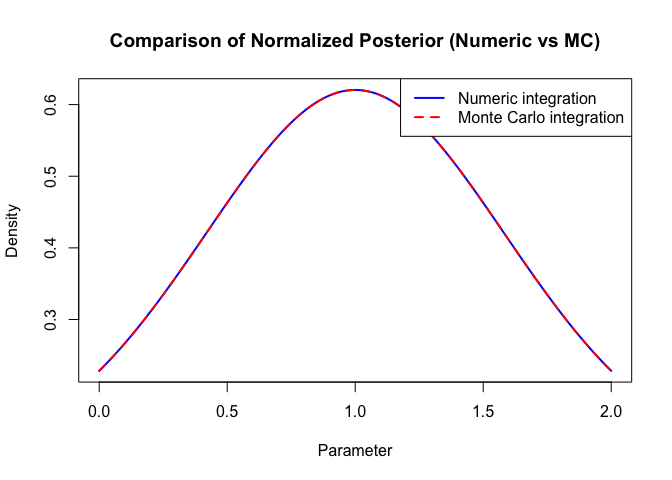
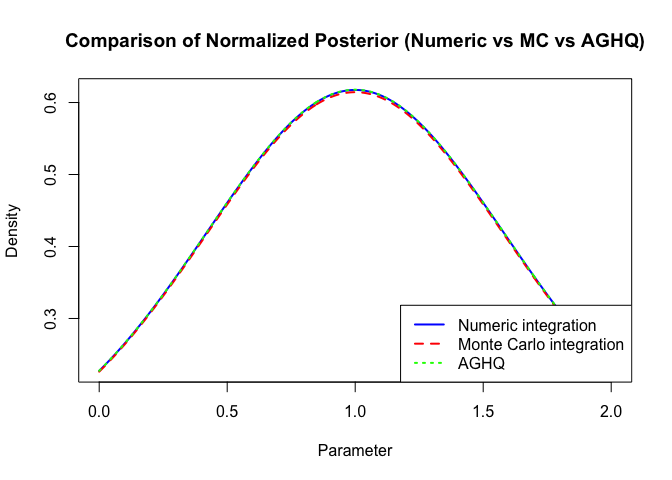
update aghq option and bug correction
enhance the code for normalization;

aghq is now an option for normalization when D >= 1

Typo correction for boss wrapper

diff --git a/docs/index.html b/docs/index.html
@@ -74,12 +74,15 @@
 <span>            alpha <span class="op">=</span> <span class="fl">0.05</span>, h <span class="op">=</span> <span class="fl">0.1</span>, verbose <span class="op">=</span> <span class="fl">1</span><span class="op">)</span></span>
 <span><span class="co">#&gt; Stage 1: Bayesian Optimization via Mode-Seeking Surrogate (BOSS) started.</span></span>
 <span><span class="co">#&gt; Stage 1: BOSS finished.</span></span>
-<span><span class="co">#&gt; Total time taken: 0.88 seconds.</span></span>
+<span><span class="co">#&gt; Total time taken: 0.81 seconds.</span></span>
 <span><span class="co">#&gt; Start updating Hessian at the mode...</span></span>
 <span><span class="co">#&gt; Hessian updated in  0.02  seconds.</span></span>
 <span><span class="co">#&gt; Stage 2: Fill-in to target spacing h =  0.1 </span></span>
-<span><span class="co">#&gt; fill in: added 20 point(s).</span></span>
-<span><span class="co">#&gt; Final update completed in  0.05  seconds.</span></span>
+<span><span class="co">#&gt; fill in: added 17 point(s).</span></span>
+<span><span class="co">#&gt; Warning in (function (boss_result, h, max_add = 100, n_sample_max = 10000, :</span></span>
+<span><span class="co">#&gt; Updated fill-in distance is (0.104862) &gt; target h (0.100000); Adjust your</span></span>
+<span><span class="co">#&gt; expectation by either increasing max_add and n_sample_max or increasing h.</span></span>
+<span><span class="co">#&gt; Final update completed in  0.09  seconds.</span></span>
 <span></span>
 <span><span class="fu"><a href="https://rdrr.io/r/graphics/plot.default.html" class="external-link">plot</a></span><span class="op">(</span><span class="va">br</span><span class="op">)</span></span></code></pre></div>
 <p><img src="reference/figures/README-unnamed-chunk-2-1.png" width="100%"><img src="reference/figures/README-unnamed-chunk-2-2.png" width="100%"></p>
@@ -94,21 +97,22 @@
 <span>                        verbose <span class="op">=</span> <span class="fl">1</span><span class="op">)</span></span>
 <span><span class="co">#&gt; Stage 1: Bayesian Optimization via Mode-Seeking Surrogate (BOSS) started.</span></span>
 <span><span class="co">#&gt; Stage 1: BOSS finished.</span></span>
-<span><span class="co">#&gt; Total time taken: 0.55 seconds.</span></span>
+<span><span class="co">#&gt; Total time taken: 0.43 seconds.</span></span>
 <span></span>
 <span><span class="va">br</span> <span class="op">&lt;-</span> <span class="fu"><a href="reference/update_hessian.html">update_hessian</a></span><span class="op">(</span><span class="va">br</span><span class="op">)</span></span>
 <span><span class="va">br</span> <span class="op">&lt;-</span> <span class="fu"><a href="reference/compute_essential_support.html">compute_essential_support</a></span><span class="op">(</span><span class="va">br</span>, alpha<span class="op">=</span><span class="fl">0.05</span><span class="op">)</span></span>
 <span><span class="va">br</span> <span class="op">&lt;-</span> <span class="fu"><a href="reference/construct_essential_designs.html">construct_essential_designs</a></span><span class="op">(</span><span class="va">br</span><span class="op">)</span></span>
 <span><span class="va">br</span> <span class="op">&lt;-</span> <span class="fu"><a href="reference/compute_fill_in.html">compute_fill_in</a></span><span class="op">(</span><span class="va">br</span><span class="op">)</span></span>
 <span><span class="va">br</span> <span class="op">&lt;-</span> <span class="fu"><a href="reference/fill_in.html">fill_in</a></span><span class="op">(</span><span class="va">br</span>, h <span class="op">=</span> <span class="fl">0.1</span>, verbose <span class="op">=</span> <span class="fl">1</span>, max_add <span class="op">=</span> <span class="fl">100</span><span class="op">)</span></span>
-<span><span class="co">#&gt; fill in: added 12 point(s).</span></span>
+<span><span class="co">#&gt; fill in: added 16 point(s).</span></span>
 <span><span class="va">br_update</span> <span class="op">&lt;-</span> <span class="fu"><a href="reference/update_boss.html">update_boss</a></span><span class="op">(</span><span class="va">br</span><span class="op">)</span></span>
 <span><span class="fu"><a href="https://rdrr.io/r/graphics/plot.default.html" class="external-link">plot</a></span><span class="op">(</span><span class="va">br_update</span><span class="op">)</span></span></code></pre></div>
 <p><img src="reference/figures/README-unnamed-chunk-3-1.png" width="100%"><img src="reference/figures/README-unnamed-chunk-3-2.png" width="100%"></p>
 <p>Take a look at the normalized posterior:</p>
 <div class="sourceCode" id="cb5"><pre class="downlit sourceCode r">
 <code class="sourceCode R"><span><span class="va">br1</span> <span class="op">&lt;-</span> <span class="fu"><a href="reference/get_normalized_posterior.html">get_normalized_posterior</a></span><span class="op">(</span><span class="va">br_update</span>, int_method <span class="op">=</span> <span class="st">"mc"</span>, nsamples <span class="op">=</span> <span class="fl">10000</span><span class="op">)</span></span>
-<span><span class="va">br2</span> <span class="op">&lt;-</span> <span class="fu"><a href="reference/get_normalized_posterior.html">get_normalized_posterior</a></span><span class="op">(</span><span class="va">br_update</span>, int_method <span class="op">=</span> <span class="st">"numeric"</span><span class="op">)</span></span></code></pre></div>
+<span><span class="va">br2</span> <span class="op">&lt;-</span> <span class="fu"><a href="reference/get_normalized_posterior.html">get_normalized_posterior</a></span><span class="op">(</span><span class="va">br_update</span>, int_method <span class="op">=</span> <span class="st">"numeric"</span><span class="op">)</span></span>
+<span><span class="va">br3</span> <span class="op">&lt;-</span> <span class="fu"><a href="reference/get_normalized_posterior.html">get_normalized_posterior</a></span><span class="op">(</span><span class="va">br_update</span>, int_method <span class="op">=</span> <span class="st">"aghq"</span>, aghq_K <span class="op">=</span> <span class="fl">10</span><span class="op">)</span></span></code></pre></div>
 <div class="sourceCode" id="cb6"><pre class="downlit sourceCode r">
 <code class="sourceCode R"><span><span class="co"># Define grid</span></span>
 <span><span class="va">x_vals</span> <span class="op">&lt;-</span> <span class="fu"><a href="https://rdrr.io/r/base/seq.html" class="external-link">seq</a></span><span class="op">(</span><span class="fl">0</span>, <span class="fl">2</span>, length.out <span class="op">=</span> <span class="fl">300</span><span class="op">)</span></span>
@@ -116,18 +120,20 @@
 <span><span class="co"># Evaluate both posteriors</span></span>
 <span><span class="va">post_mc</span> <span class="op">&lt;-</span> <span class="fu"><a href="https://rdrr.io/r/base/lapply.html" class="external-link">sapply</a></span><span class="op">(</span><span class="va">x_vals</span>, <span class="va">br1</span><span class="op">$</span><span class="va">normalized_posterior</span><span class="op">)</span></span>
 <span><span class="va">post_num</span> <span class="op">&lt;-</span> <span class="fu"><a href="https://rdrr.io/r/base/lapply.html" class="external-link">sapply</a></span><span class="op">(</span><span class="va">x_vals</span>, <span class="va">br2</span><span class="op">$</span><span class="va">normalized_posterior</span><span class="op">)</span></span>
+<span><span class="va">post_aghq</span> <span class="op">&lt;-</span> <span class="fu"><a href="https://rdrr.io/r/base/lapply.html" class="external-link">sapply</a></span><span class="op">(</span><span class="va">x_vals</span>, <span class="va">br3</span><span class="op">$</span><span class="va">normalized_posterior</span><span class="op">)</span></span>
 <span></span>
 <span><span class="co"># Plot</span></span>
 <span><span class="fu"><a href="https://rdrr.io/r/graphics/plot.default.html" class="external-link">plot</a></span><span class="op">(</span></span>
 <span>  <span class="va">x_vals</span>, <span class="va">post_num</span>, type <span class="op">=</span> <span class="st">"l"</span>, lwd <span class="op">=</span> <span class="fl">2</span>, col <span class="op">=</span> <span class="st">"blue"</span>,</span>
 <span>  xlab <span class="op">=</span> <span class="st">"Parameter"</span>, ylab <span class="op">=</span> <span class="st">"Density"</span>,</span>
-<span>  main <span class="op">=</span> <span class="st">"Comparison of Normalized Posterior (Numeric vs MC)"</span></span>
+<span>  main <span class="op">=</span> <span class="st">"Comparison of Normalized Posterior (Numeric vs MC vs AGHQ)"</span></span>
 <span><span class="op">)</span></span>
 <span><span class="fu"><a href="https://rdrr.io/r/graphics/lines.html" class="external-link">lines</a></span><span class="op">(</span><span class="va">x_vals</span>, <span class="va">post_mc</span>, col <span class="op">=</span> <span class="st">"red"</span>, lwd <span class="op">=</span> <span class="fl">2</span>, lty <span class="op">=</span> <span class="fl">2</span><span class="op">)</span></span>
+<span><span class="fu"><a href="https://rdrr.io/r/graphics/lines.html" class="external-link">lines</a></span><span class="op">(</span><span class="va">x_vals</span>, <span class="va">post_aghq</span>, col <span class="op">=</span> <span class="st">"green"</span>, lwd <span class="op">=</span> <span class="fl">2</span>, lty <span class="op">=</span> <span class="fl">3</span><span class="op">)</span></span>
 <span><span class="fu"><a href="https://rdrr.io/r/graphics/legend.html" class="external-link">legend</a></span><span class="op">(</span></span>
-<span>  <span class="st">"topright"</span>,</span>
-<span>  legend <span class="op">=</span> <span class="fu"><a href="https://rdrr.io/r/base/c.html" class="external-link">c</a></span><span class="op">(</span><span class="st">"Numeric integration"</span>, <span class="st">"Monte Carlo integration"</span><span class="op">)</span>,</span>
-<span>  col <span class="op">=</span> <span class="fu"><a href="https://rdrr.io/r/base/c.html" class="external-link">c</a></span><span class="op">(</span><span class="st">"blue"</span>, <span class="st">"red"</span><span class="op">)</span>, lwd <span class="op">=</span> <span class="fl">2</span>, lty <span class="op">=</span> <span class="fu"><a href="https://rdrr.io/r/base/c.html" class="external-link">c</a></span><span class="op">(</span><span class="fl">1</span>,<span class="fl">2</span><span class="op">)</span></span>
+<span>  <span class="st">"bottomright"</span>,</span>
+<span>  legend <span class="op">=</span> <span class="fu"><a href="https://rdrr.io/r/base/c.html" class="external-link">c</a></span><span class="op">(</span><span class="st">"Numeric integration"</span>, <span class="st">"Monte Carlo integration"</span>, <span class="st">"AGHQ"</span><span class="op">)</span>,</span>
+<span>  col <span class="op">=</span> <span class="fu"><a href="https://rdrr.io/r/base/c.html" class="external-link">c</a></span><span class="op">(</span><span class="st">"blue"</span>, <span class="st">"red"</span>, <span class="st">"green"</span><span class="op">)</span>, lty <span class="op">=</span> <span class="fu"><a href="https://rdrr.io/r/base/c.html" class="external-link">c</a></span><span class="op">(</span><span class="fl">1</span>, <span class="fl">2</span>, <span class="fl">3</span><span class="op">)</span>, lwd <span class="op">=</span> <span class="fl">2</span></span>
 <span><span class="op">)</span></span></code></pre></div>
 <p><img src="reference/figures/README-unnamed-chunk-5-1.png" width="100%"></p>
 </div>
@@ -146,7 +152,7 @@
 <span>            alpha <span class="op">=</span> <span class="fl">0.05</span>, h <span class="op">=</span> <span class="fl">0.1</span>, verbose <span class="op">=</span> <span class="fl">1</span><span class="op">)</span></span>
 <span><span class="co">#&gt; Stage 1: Bayesian Optimization via Mode-Seeking Surrogate (BOSS) started.</span></span>
 <span><span class="co">#&gt; Stage 1: BOSS finished.</span></span>
-<span><span class="co">#&gt; Total time taken: 0.97 seconds.</span></span>
+<span><span class="co">#&gt; Total time taken: 0.94 seconds.</span></span>
 <span><span class="co">#&gt; Start updating Hessian at the mode...</span></span>
 <span><span class="co">#&gt; Hessian updated in  0.03  seconds.</span></span>
 <span><span class="co">#&gt; Stage 2: Fill-in to target spacing h =  0.1</span></span>
@@ -157,7 +163,7 @@
 <span><span class="co">#&gt; Warning in (function (boss_result, h, max_add = 100, n_sample_max = 10000, :</span></span>
 <span><span class="co">#&gt; Updated fill-in distance is (0.446202) &gt; target h (0.100000); Adjust your</span></span>
 <span><span class="co">#&gt; expectation by either increasing max_add and n_sample_max or increasing h.</span></span>
-<span><span class="co">#&gt; Final update completed in  0.54  seconds.</span></span>
+<span><span class="co">#&gt; Final update completed in  0.55  seconds.</span></span>
 <span><span class="fu"><a href="https://rdrr.io/r/graphics/plot.default.html" class="external-link">plot</a></span><span class="op">(</span><span class="va">br3</span><span class="op">)</span></span></code></pre></div>
 <p><img src="reference/figures/README-exmple2d-1.png" width="100%"></p>
 <div class="sourceCode" id="cb8"><pre class="downlit sourceCode r">
@@ -177,7 +183,7 @@
 <span>                        verbose <span class="op">=</span> <span class="fl">1</span><span class="op">)</span></span>
 <span><span class="co">#&gt; Stage 1: Bayesian Optimization via Mode-Seeking Surrogate (BOSS) started.</span></span>
 <span><span class="co">#&gt; Stage 1: BOSS finished.</span></span>
-<span><span class="co">#&gt; Total time taken: 1.09 seconds.</span></span>
+<span><span class="co">#&gt; Total time taken: 1.06 seconds.</span></span>
 <span></span>
 <span><span class="va">br3</span> <span class="op">&lt;-</span> <span class="fu"><a href="reference/update_hessian.html">update_hessian</a></span><span class="op">(</span><span class="va">br3</span><span class="op">)</span></span>
 <span><span class="va">br3</span> <span class="op">&lt;-</span> <span class="fu"><a href="reference/compute_essential_support.html">compute_essential_support</a></span><span class="op">(</span><span class="va">br3</span>, alpha <span class="op">=</span> <span class="fl">0.05</span><span class="op">)</span></span>

diff --git a/README.md b/README.md
@@ -47,12 +47,15 @@ br <- boss(f1d, D = 1, method = 'modal',
             alpha = 0.05, h = 0.1, verbose = 1)
 #> Stage 1: Bayesian Optimization via Mode-Seeking Surrogate (BOSS) started.
 #> Stage 1: BOSS finished.
-#> Total time taken: 0.88 seconds.
+#> Total time taken: 0.81 seconds.
 #> Start updating Hessian at the mode...
 #> Hessian updated in  0.02  seconds.
 #> Stage 2: Fill-in to target spacing h =  0.1 
-#> fill in: added 20 point(s).
-#> Final update completed in  0.05  seconds.
+#> fill in: added 17 point(s).
+#> Warning in (function (boss_result, h, max_add = 100, n_sample_max = 10000, :
+#> Updated fill-in distance is (0.104862) > target h (0.100000); Adjust your
+#> expectation by either increasing max_add and n_sample_max or increasing h.
+#> Final update completed in  0.09  seconds.
 
 plot(br)
 ```
@@ -72,14 +75,14 @@ br <- BOSS_modal(func = f1d, D = 1,
                         verbose = 1)
 #> Stage 1: Bayesian Optimization via Mode-Seeking Surrogate (BOSS) started.
 #> Stage 1: BOSS finished.
-#> Total time taken: 0.55 seconds.
+#> Total time taken: 0.43 seconds.
 
 br <- update_hessian(br)
 br <- compute_essential_support(br, alpha=0.05)
 br <- construct_essential_designs(br)
 br <- compute_fill_in(br)
 br <- fill_in(br, h = 0.1, verbose = 1, max_add = 100)
-#> fill in: added 12 point(s).
+#> fill in: added 16 point(s).
 br_update <- update_boss(br)
 plot(br_update)
 ```
@@ -91,6 +94,7 @@ Take a look at the normalized posterior:
 ``` r
 br1 <- get_normalized_posterior(br_update, int_method = "mc", nsamples = 10000)
 br2 <- get_normalized_posterior(br_update, int_method = "numeric")
+br3 <- get_normalized_posterior(br_update, int_method = "aghq", aghq_K = 10)
 ```
 
 ``` r
@@ -100,18 +104,20 @@ x_vals <- seq(0, 2, length.out = 300)
 # Evaluate both posteriors
 post_mc <- sapply(x_vals, br1$normalized_posterior)
 post_num <- sapply(x_vals, br2$normalized_posterior)
+post_aghq <- sapply(x_vals, br3$normalized_posterior)
 
 # Plot
 plot(
   x_vals, post_num, type = "l", lwd = 2, col = "blue",
   xlab = "Parameter", ylab = "Density",
-  main = "Comparison of Normalized Posterior (Numeric vs MC)"
+  main = "Comparison of Normalized Posterior (Numeric vs MC vs AGHQ)"
 )
 lines(x_vals, post_mc, col = "red", lwd = 2, lty = 2)
+lines(x_vals, post_aghq, col = "green", lwd = 2, lty = 3)
 legend(
-  "topright",
-  legend = c("Numeric integration", "Monte Carlo integration"),
-  col = c("blue", "red"), lwd = 2, lty = c(1,2)
+  "bottomright",
+  legend = c("Numeric integration", "Monte Carlo integration", "AGHQ"),
+  col = c("blue", "red", "green"), lty = c(1, 2, 3), lwd = 2
 )
 ```
 
@@ -134,7 +140,7 @@ br3 <- boss(f2d, D = 2, method = 'modal',
             alpha = 0.05, h = 0.1, verbose = 1)
 #> Stage 1: Bayesian Optimization via Mode-Seeking Surrogate (BOSS) started.
 #> Stage 1: BOSS finished.
-#> Total time taken: 0.97 seconds.
+#> Total time taken: 0.94 seconds.
 #> Start updating Hessian at the mode...
 #> Hessian updated in  0.03  seconds.
 #> Stage 2: Fill-in to target spacing h =  0.1
@@ -145,7 +151,7 @@ br3 <- boss(f2d, D = 2, method = 'modal',
 #> Warning in (function (boss_result, h, max_add = 100, n_sample_max = 10000, :
 #> Updated fill-in distance is (0.446202) > target h (0.100000); Adjust your
 #> expectation by either increasing max_add and n_sample_max or increasing h.
-#> Final update completed in  0.54  seconds.
+#> Final update completed in  0.55  seconds.
 plot(br3)
 ```
 
@@ -171,7 +177,7 @@ br3 <- BOSS_modal(func = f2d, D = 2,
                         verbose = 1)
 #> Stage 1: Bayesian Optimization via Mode-Seeking Surrogate (BOSS) started.
 #> Stage 1: BOSS finished.
-#> Total time taken: 1.09 seconds.
+#> Total time taken: 1.06 seconds.
 
 br3 <- update_hessian(br3)
 br3 <- compute_essential_support(br3, alpha = 0.05)
